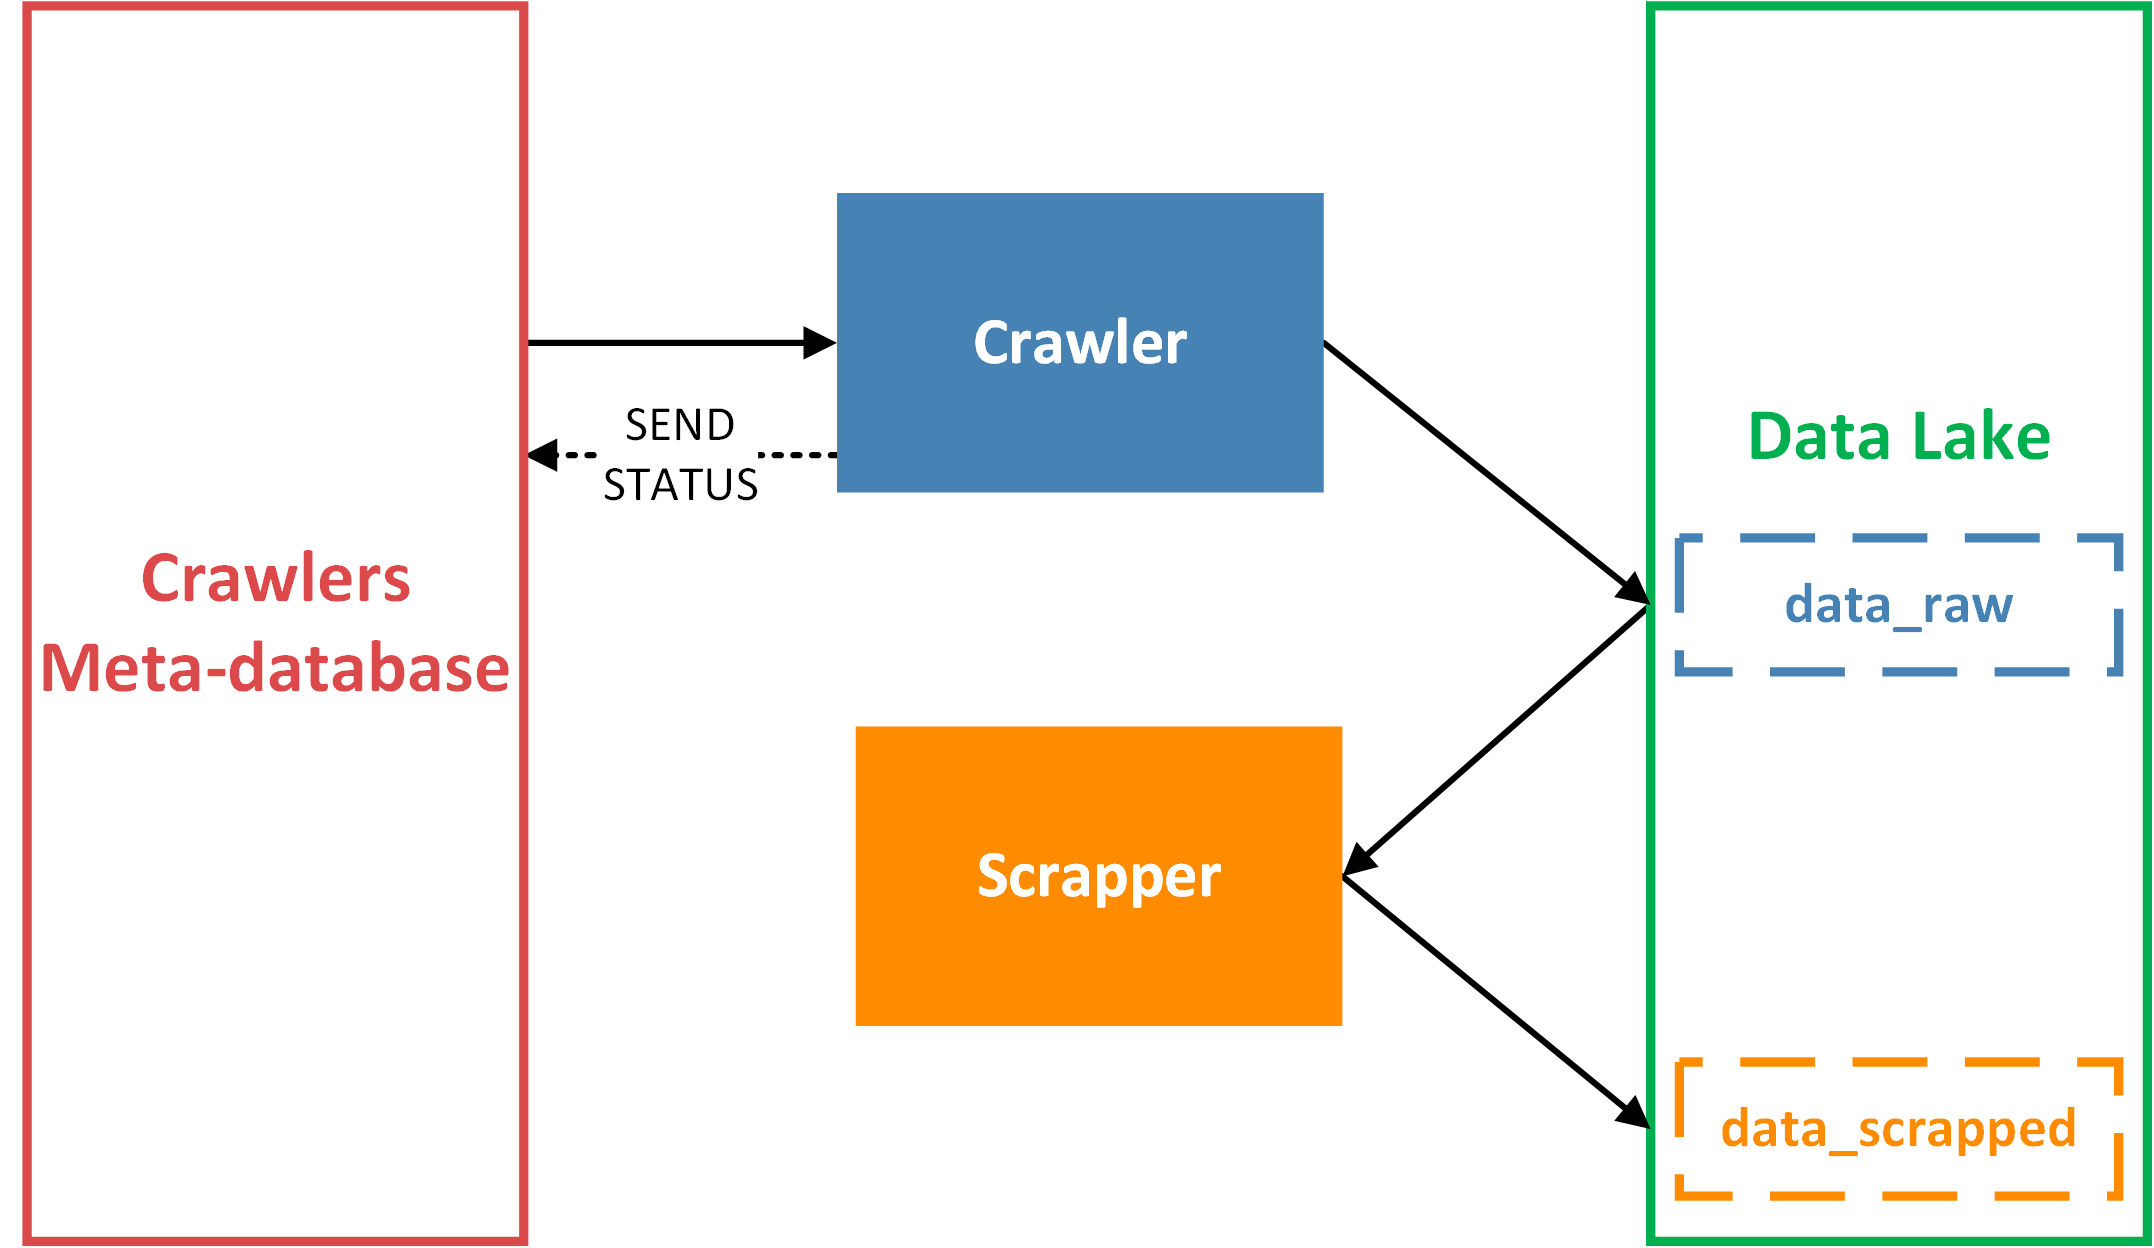
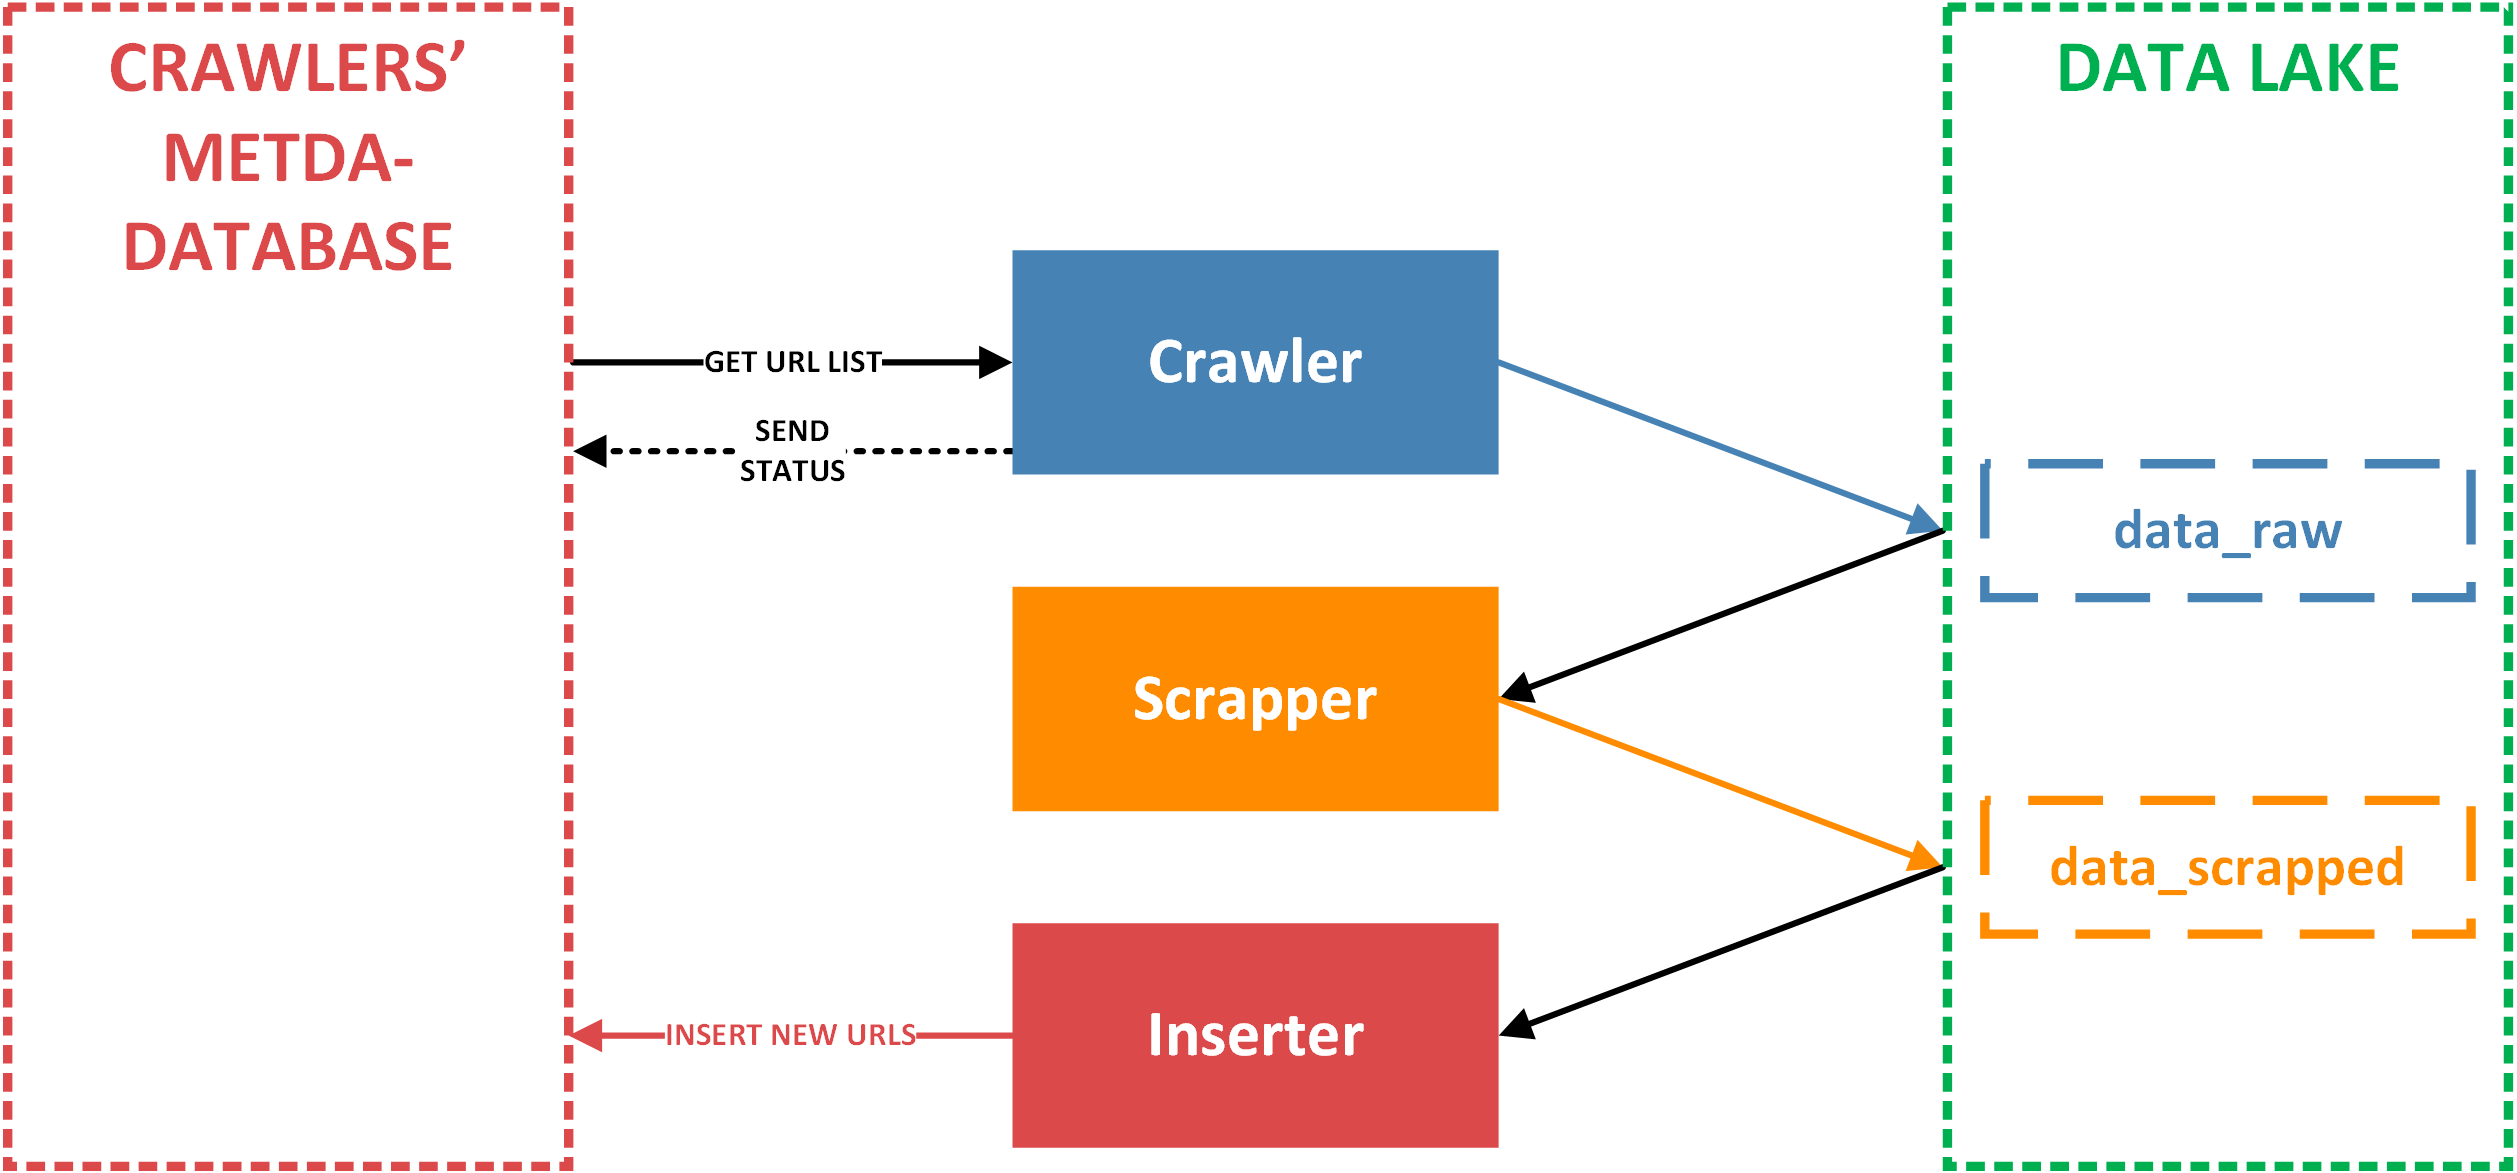
updated readme

diff --git a/README.md b/README.md
@@ -2,10 +2,17 @@
 The goal is to crawl the https://icobench.com/ieo page and collect information about Initial
 Exchange Offerings. It collects the information about the IEOs and their whitepapers. 
 
-## Metadata Crawling
-
 ## Architecture flow
 ![Architecture Flow](docs/architecture_flow.png)
+1. Crawler requests the links to scrape from the database. If it crawles the website sucessfully it sends a SUCCESS 
+status for the given url, otherwise a FAIL status. Crawler saves raw htmls in the data_raw directory.
+2. Scrapper opens the downloaded files and extracts information and saves it into csv format. The csv files are saved in
+the data_scrapped folder
+3. There is also optional Inserter, that puts new urls into the datbase. It gets the newly scrapped file and inserts 
+urls from it.
+
+There is also a special step called meta-crawling. The example of it is a crawler_list.py, that given only the initial url, 
+crawles the table to get all other links to crawl later. 
 
 ## Data Lake Structure
 Data Lake consists of raw crawled web pages or pdf files and also scrapped information into csv
